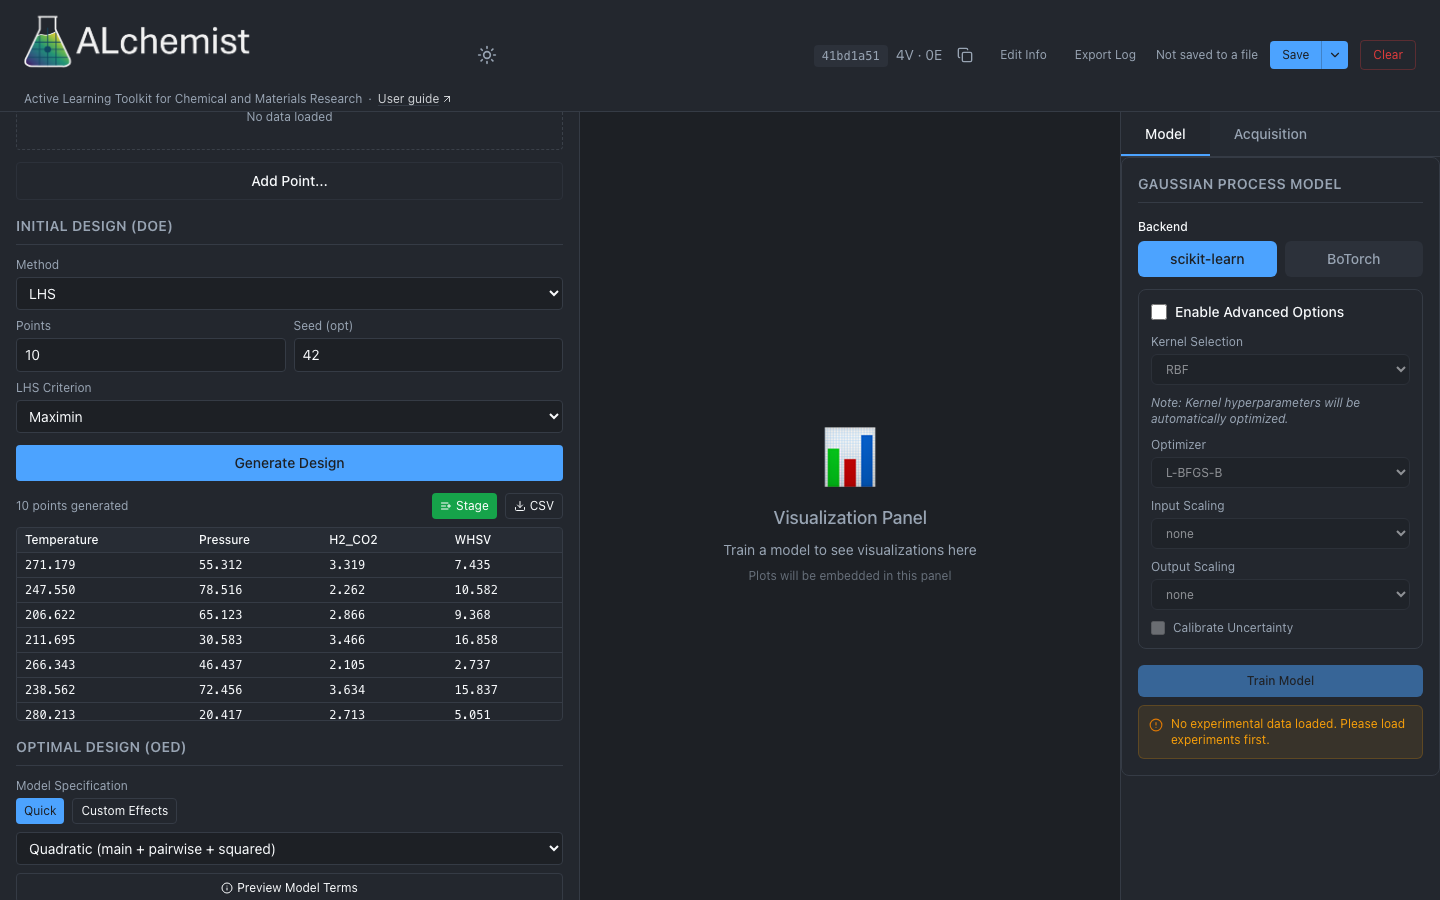
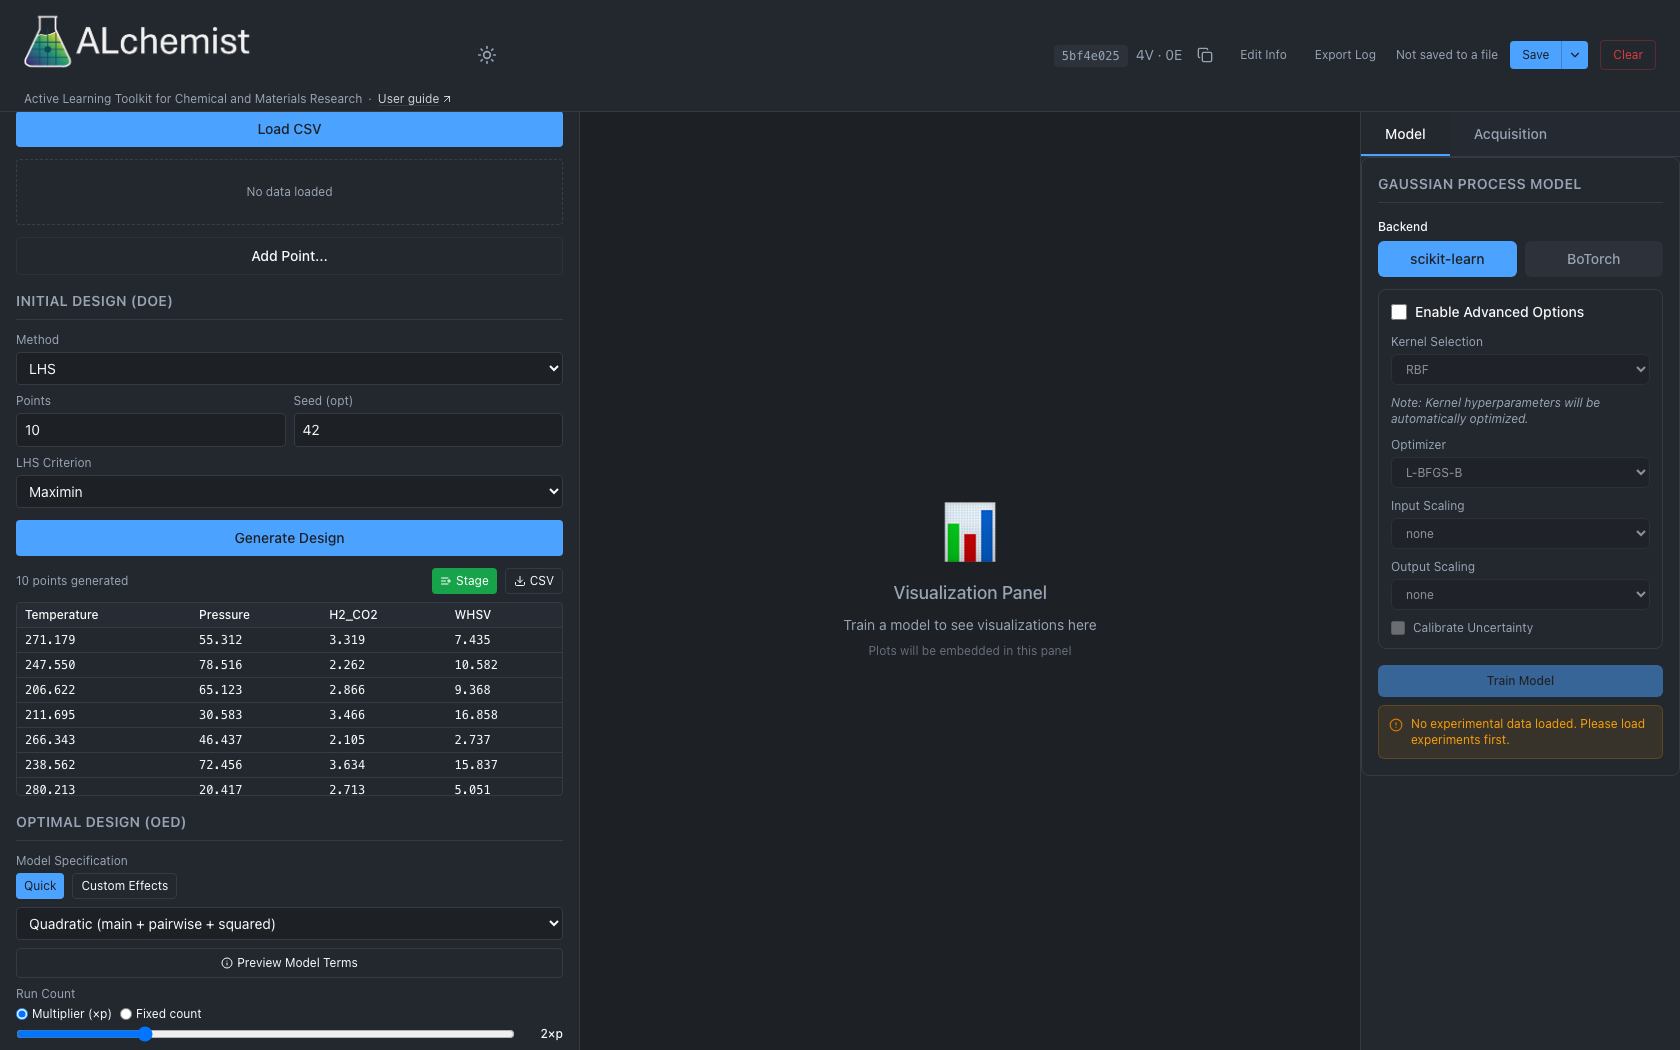
docs: screenshots at 1680x1050 in both themes

diff --git a/docs/scripts/screenshots/README.md b/docs/scripts/screenshots/README.md
@@ -1,6 +1,6 @@
 # Docs screenshots
 
-`shoot.mjs` takes every screenshot the docs use from the real web app, on simulated data, at 1440x900, each in the light and in the dark theme. Run it before each release, and after any change to the web app that a guide page shows. It is not run in CI.
+`shoot.mjs` takes every screenshot the docs use from the real web app, on simulated data, at 1680x1050, each in the light and in the dark theme. Run it before each release, and after any change to the web app that a guide page shows. It is not run in CI.
 
 ## Run
 
